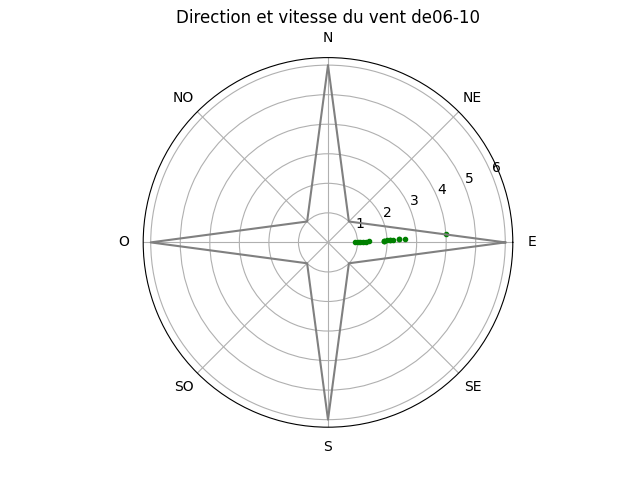
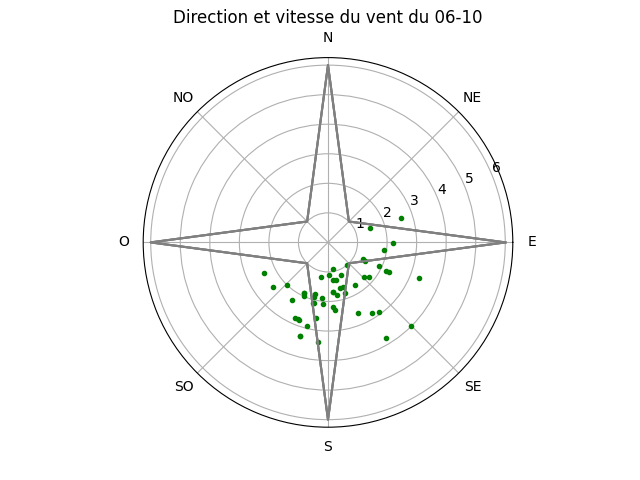
before exam

diff --git a/alexis_code/php/files/polaire_individuel.py b/alexis_code/php/files/polaire_individuel.py
@@ -30,12 +30,15 @@ for row in res:			# pour toutes les dates
     requete = "SELECT * FROM weather WHERE date LIKE '" + str(row[0]) + "%';"
     cur.execute(requete)
     res2 = cur.fetchall()
-    #print(f"exemple de {res2}")
+    # print(f"exemple de {res2}")
     for row2 in res2:
         tableau_association_temperatures.append((row[0], row2[0], row2[3]))
         tableau_association_humidite.append((row[0], row2[0], row2[5]))
         tableau_association_windspeed.append((row[0], row2[0], row2[7]))
+        #print(row2[6])
         tableau_association_windorientation.append((row[0], row2[0], row2[6]))
+        #tableau_association_windorientation.append((row[0], row2[0], row2[5]))
+
     #print(f"fin de tableau association temp {tableau_association_temperatures}")
 
 for row in res:
@@ -50,12 +53,13 @@ for row in res:
             h_temp_tab.append(tableau_association_temperatures[i][1])
             hu_temp_tab.append(tableau_association_humidite[i][2])
             ws_temp_tab.append(tableau_association_windspeed[i][2])
-            wo_temp_tab.append(tableau_association_windspeed[i][2])
+            wo_temp_tab.append(tableau_association_windorientation[i][2])
+            #print(tableau_association_windspeed[i][2])
     #tableaux thesee
     vents=[] #orientation du vent en degrès
     for i in range (len(wo_temp_tab)):
-	    conv = wo_temp_tab[i]*3.14/180
-	    vents.append(conv)
+        conv = wo_temp_tab[i]*3.14/180
+        vents.append(conv)
     polaire=[]
     for i in range (len(vents)):
 	    polaire.append((vents[i],ws_temp_tab[i]))
@@ -67,8 +71,10 @@ for row in res:
     etoile = np.array([6, 1, 6, 1, 6, 1, 6, 1, 6])
     courbes = plt.polar(angles, etoile,'gray')
     axes = plt.gca()
-    plt.title('Direction et vitesse du vent de'+str(row[0]))
+    #plt.title('Direction et vitesse du vent de'+str(row[0]))
+    plt.title('Direction et vitesse du vent du '  + str(row[0]))
     axes.set_thetagrids(angles=radDeg*angles[0:-1], labels=("E", "NE", "N", "NO", "O", "SO", "S", "SE"))
     #plt.show()
+
     file_name="alexis_code/php/files/" + str(row[0]) + "_polaire.png"
     plt.savefig(file_name)

diff --git a/alexis_code/php/files/index.php b/alexis_code/php/files/index.php
@@ -9,7 +9,7 @@ if(isset($_GET['jour'])){
 
 
     echo'<h1>OpenWeather Data : (Python, PHP, MQTT, SQlite)</h1>';
-    echo"<h3>Les données demandées seront présentées sous forme d'un tableau puis sous forme de graphiques.</h3>";
+    echo"<h3>Les données demandées sont présentées sous la forme d'un tableau puis sous la forme de graphiques.</h3>";
 
     echo'
     <b>Changement de la date :</b>
@@ -43,7 +43,7 @@ if(isset($_GET['jour'])){
     <th scope="col">Latitude</th>
     <th scope="col">Longitude</th>
     <th scope="col">Température</th>
-    <th scope="col">Recouvrement des nuages</th>
+    <th scope="col">Recouvrement nuageux</th>
     <th scope="col">Humidité</th>
     <th scope="col">Direction du vent</th>
     <th scope="col">Vitesse du vent</th>
@@ -90,7 +90,7 @@ $querry='SELECT * from weather ORDER BY date DESC LIMIT 9';
 $results=$db->query($querry);
 
 echo'<h1>OpenWeather Data : (Python, PHP, MQTT, SQlite)</h1>';
-echo"<h3>Les données demandées seront présentées sous forme d'un tableau puis sous forme de graphiques.</h3>";
+echo"<h3>Les données demandées sont présentées sous la forme d'un tableau puis sous la forme de graphiques.</h3>";
 
 echo'
 <b>Changement de la date :</b>
@@ -120,7 +120,7 @@ echo'<tr>
 <th scope="col">Latitude</th>
 <th scope="col">Longitude</th>
 <th scope="col">Température</th>
-<th scope="col">Recouvrement des nuages</th>
+<th scope="col">Recouvrement nuageux</th>
 <th scope="col">Humidité</th>
 <th scope="col">Direction du vent</th>
 <th scope="col">Vitesse du vent</th>

diff --git a/alexis_code/php/files/cloud_area_graph.py b/alexis_code/php/files/cloud_area_graph.py
@@ -29,12 +29,17 @@ tuple = (date,cloud_area_fraction)
 
 fig, ax = plt.subplots() 
 ax.plot(date, cloud_area_fraction)
-plt.title('Recouvrement des nuages')
-plt.xticks(rotation = 45)
+plt.title('Couverture nuageuse')
+# plt.xticks(rotation = 45)
+plt.xticks(rotation = 'vertical')
+
 plt.tight_layout()
 ax.fill_between(date, cloud_area_fraction, alpha=0.7)
-ax.set_ylabel('Couverture des nuages (en %)')
+ax.set_ylabel('Nébulosité (en %)')
 ax.set_xlabel('Date et heure')
+#plt.xticks([]) # retire graduation en x
+ax.xaxis.set_tick_params(labelsize=6)
+
 
 plt.savefig("alexis_code/php/files/cloud_area_fraction.png", bbox_inches='tight') # on fait afficher le graphe
 #plt.show()

diff --git a/alexis_code/php/files/temper_graph.py b/alexis_code/php/files/temper_graph.py
@@ -31,11 +31,14 @@ tuple = (date,air_temperature)
 fig, ax = plt.subplots() # subplots est un tuple avec fig qui correspond au dessin et ax aux valeurs
 ax.plot(date, air_temperature) # on ajoute les valeurs de nos tableaux \u00e0 ax
 plt.title('Températures')
-plt.xticks(rotation = 45)
+#plt.xticks(rotation = 45)
+plt.xticks(rotation = 'vertical')
 
 
 ax.set_ylabel('Température (en °C)')
 ax.set_xlabel('Date et heure')
 plt.tight_layout()
+#plt.xticks([]) # retire graduation en x
+ax.xaxis.set_tick_params(labelsize=6)
 
 plt.savefig("alexis_code/php/files/temperatures.png", bbox_inches='tight') # on fait afficher le graphe

diff --git a/alexis_code/php/files/humidity_graph.py b/alexis_code/php/files/humidity_graph.py
@@ -31,11 +31,15 @@ tuple = (date,air_temperature)
 fig, ax = plt.subplots() # subplots est un tuple avec fig qui correspond au dessin et ax aux valeurs
 ax.plot(date, air_temperature) # on ajoute les valeurs de nos tableaux \u00e0 ax
 plt.title('Humidité')
-plt.xticks(rotation = 45)
+# plt.xticks(rotation = 45)
+plt.xticks(rotation = 'vertical')
 
 
 ax.set_ylabel("Taux d'humidité (en %)")
 ax.set_xlabel('Date et heure')
 plt.tight_layout()
+#plt.xticks([]) # retire graduation en x
+ax.xaxis.set_tick_params(labelsize=6)
+
 
 plt.savefig("alexis_code/php/files/humidite.png", bbox_inches='tight') # on fait afficher le graphe

diff --git a/alexis_code/php/files/clous_area_individual.py b/alexis_code/php/files/clous_area_individual.py
@@ -61,11 +61,11 @@ for row in res:
     #tableau températures
     fig, ax = plt.subplots()
     ax.plot(h_temp_tab, c_temp_tab)
-    plt.title('Recouvrement des nuages')
+    plt.title('Couverture nuageuse du ' + str(row[0]))
     plt.xticks(rotation = 45)
     plt.tight_layout()
     ax.fill_between(h_temp_tab, c_temp_tab, alpha=0.7)
-    ax.set_ylabel('Couverture des nuages (en %)')
+    ax.set_ylabel('Nébulosité (en %)')
     ax.set_xlabel('Date et heure')
     #plt.show()
     file_name="alexis_code/php/files/" + str(row[0]) + "_cloud_area_fraction.png"

diff --git a/alexis_code/php/files/humidite_temperature_individuel.py b/alexis_code/php/files/humidite_temperature_individuel.py
@@ -57,7 +57,7 @@ for row in res:
     #tableau températures
     fig, ax = plt.subplots()
     ax.plot(h_temp_tab, t_temp_tab)
-    plt.title('Températures')
+    plt.title('Températures du ' + str(row[0]))
     plt.xticks(rotation = 45)
     plt.tight_layout()
     #plt.show()
@@ -69,7 +69,7 @@ for row in res:
     #tableau humidité
     fig, ax = plt.subplots()
     ax.plot(h_temp_tab, hu_temp_tab)
-    plt.title('Humidité')
+    plt.title('Humidité du ' + str(row[0]))
     plt.xticks(rotation = 45)
     plt.tight_layout()
     #plt.show()

diff --git a/alexis_code/php/files/api_to_db.py b/alexis_code/php/files/api_to_db.py
@@ -24,6 +24,7 @@ data=json.loads(text)
 units=data["properties"]["meta"]["units"]
 weather=data["properties"]["timeseries"][0]["data"]["instant"]["details"]
 
+
 results=[]
 for key in weather.keys():
     results.append(weather[key])
@@ -33,6 +34,7 @@ for key in weather.keys():
 db_path='alexis_code/php/files/sae23.sqlite'
 connection=sqlite3.connect(db_path)
 cursor=connection.cursor()
+
 
 cursor.execute(
     "INSERT INTO weather VALUES (?, ?, ?, ?, ?, ?, ?, ?)",

diff --git a/alexis_code/php/files/polar_graph.py b/alexis_code/php/files/polar_graph.py
@@ -28,6 +28,7 @@ vents = []
 
 for i in range (len(tab)):
 	conv = tab[i]*3.14/180
+	print(conv)
 	vents.append(conv)
 	
 polaire=[]
